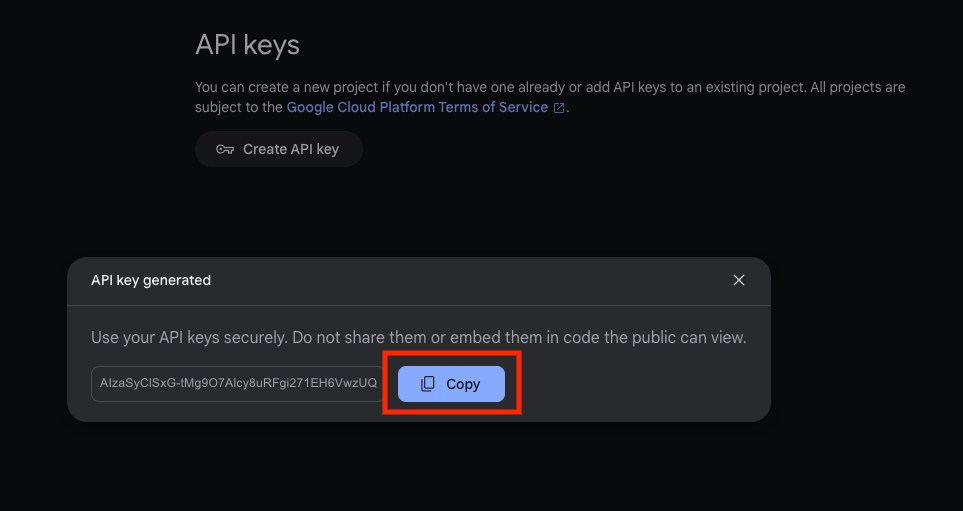
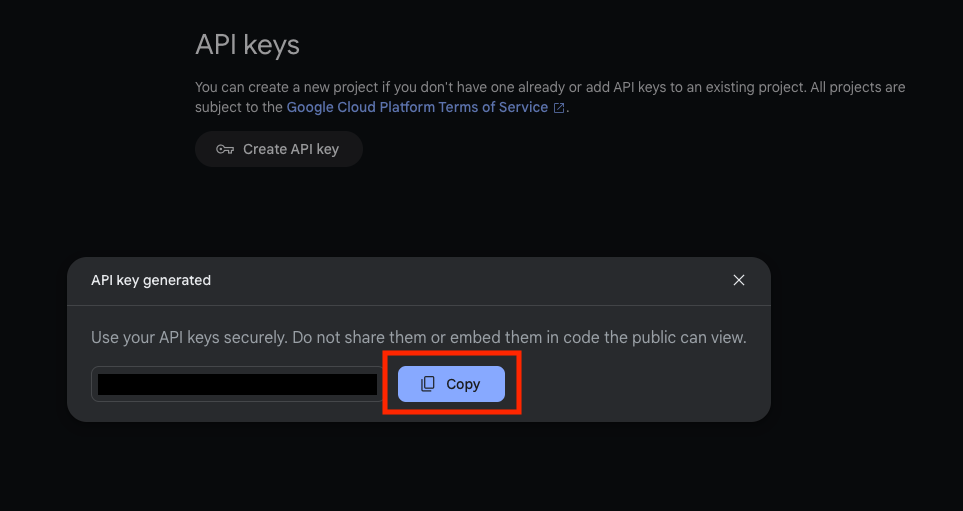
Hide API key in guide (invalid anyway)

Changed region(s): [[0.0935, 0.7339, 0.405, 0.7926]]

diff --git a/src/routes/+page.svelte b/src/routes/+page.svelte
@@ -4,7 +4,7 @@
     import github from '$lib/assets/socials/icone-github-jaune.png';
     import logo from '$lib/assets/logo-removebg.png';
     import Disclaimer from "$lib/components/Disclaimer.svelte";
-    import {navigate} from "$lib/util.svelte.ts";
+    import {goto} from "$app/navigation";
 
     let disclaimerOpen = $state(false);
 </script>
@@ -64,5 +64,5 @@
         <p class="mb-2">Favicon is created by <a class="link" href="https://icons8.com" target="_blank">icons8.com</a></p>
     </section>
 
-    <Disclaimer {disclaimerOpen} onAgree="{() => {disclaimerOpen = false; navigate('/settings/ai')}}"></Disclaimer>
+    <Disclaimer {disclaimerOpen} onAgree="{() => {disclaimerOpen = false; goto('game/settings/ai')}}"></Disclaimer>
 </main>
